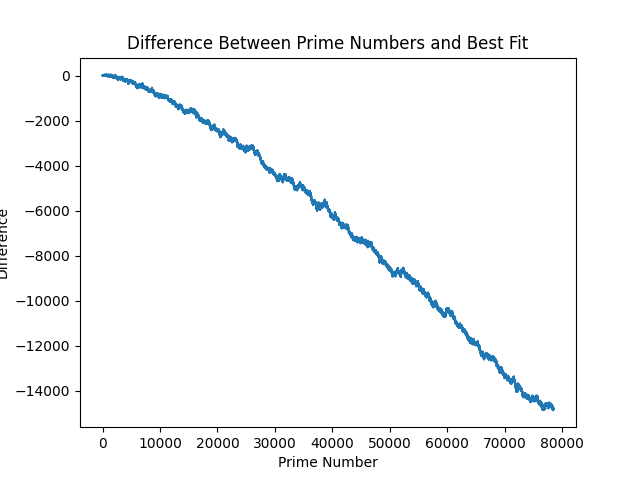
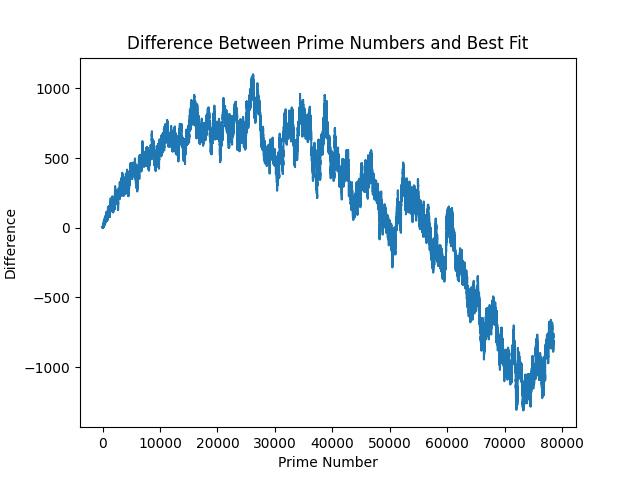
Did a constant optimisation to fit best lowest constant value - resolved on C=0.7855 for now

diff --git a/primes/fitter.py b/primes/fitter.py
@@ -103,7 +103,8 @@ def main():
    # ex_str = supplement_ops([3.00, 2, 14])
    # ex_str = supplement_ops([10, 2, 14])
    # ex_str = "((x*sin(sin(1.1717823427685636)))*log(x,y))"
-   ex_str = "((x*0.7964759083371821)*log(x,y))"
+   # ex_str = "((x*0.7964759083371821)*log(x,y))"
+   ex_str = "((x*0.7855)*log(x,y))"
    # ex_str = supplement_ops(
    #    [6, 2.00, 2, 10, 7] + # (2x)
    #    [2] + # \*
@@ -133,13 +134,13 @@ def main():
    best_prime_results = [res for (y, res) in result_sets if y == best[0]][0]
 
    # ? Prime numbers vs best fit plot.
-   plt.plot(range(len(primes)), primes, label="Primes")
-   plt.plot(range(len(primes)), best_prime_results, label="Best Fit")
-   plt.xlabel("Prime Number")
-   plt.ylabel("Value")
-   plt.title("Prime Numbers vs. Best Fit")
-   plt.savefig("primes_vs_best_fit.png")
-   plt.show()
+   # plt.plot(range(len(primes)), primes, label="Primes")
+   # plt.plot(range(len(primes)), best_prime_results, label="Best Fit")
+   # plt.xlabel("Prime Number")
+   # plt.ylabel("Value")
+   # plt.title("Prime Numbers vs. Best Fit")
+   # plt.savefig("primes_vs_best_fit.png")
+   # plt.show()
 
    # ? Difference plot.
    difference = [prime - result for prime, result in zip(primes, best_prime_results)]
